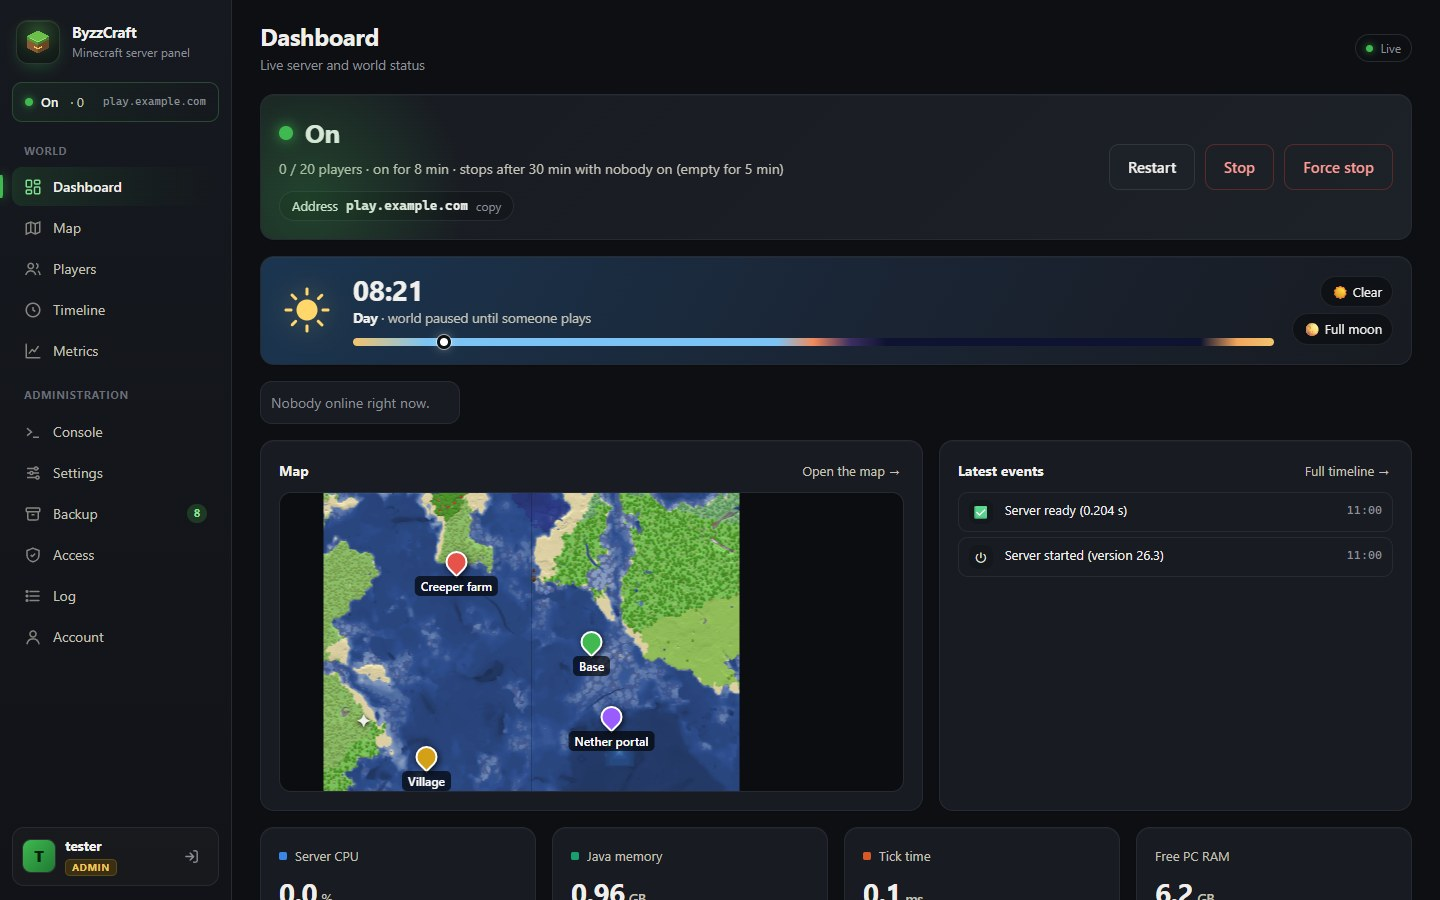
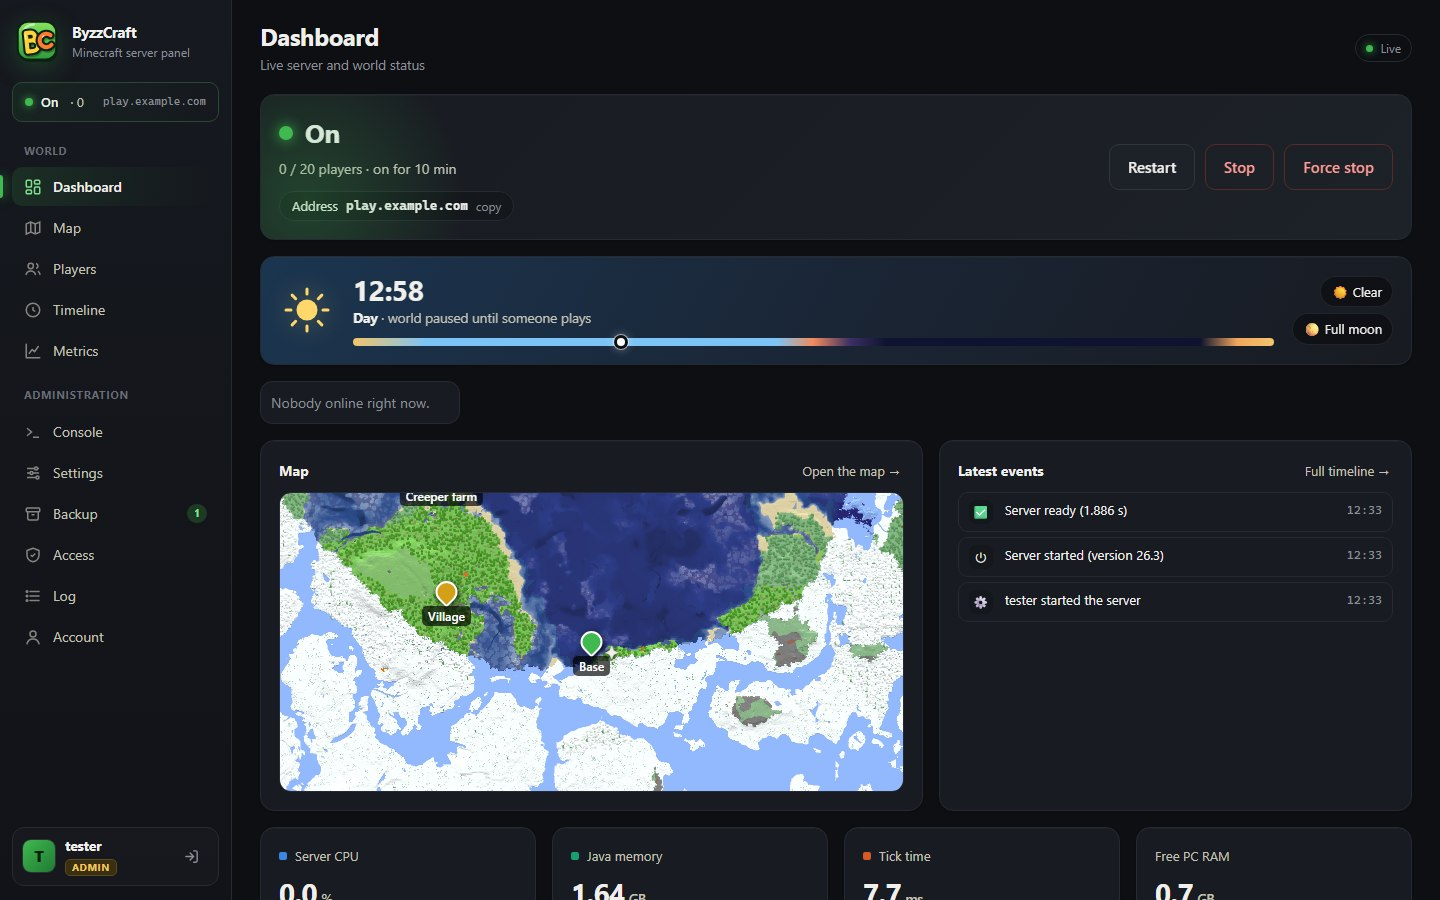
Language in Settings > Panel, new screenshots
- Settings > Panel: language select (English plus one entry per
  i18n/<code>.json); saving a new language restarts the panel, the page
  reloads when it is back. Refused while the server starts or stops or a
  backup runs. Setup page and `setup --lang` use the same list.
- Dashboard "Latest events": events are filtered before the cut, on the
  server and in the page, so console commands no longer push the server
  starts out of the feed.
- Map: tiles overlap by 1 px, no seams when zoomed out.
- Language and Java flags share one row in Settings > Panel.
- docs/screenshots: retaken from a demo server (fresh world, new logo).
- Test: language list, unknown language refused, language saved.

diff --git a/app.html b/app.html
@@ -244,7 +244,7 @@ details.ender summary{cursor:pointer;color:var(--text2);font-size:14px;margin-bo
 .wm{position:relative;overflow:hidden;background:#0b0d10;border-radius:12px;border:1px solid var(--line);touch-action:none;cursor:grab;user-select:none}
 .wm:active{cursor:grabbing}
 .wm-world{position:absolute;left:0;top:0;transform-origin:0 0}/* no will-change: the browser would paint at one scale only (missing tiles, blurry text when zoomed) */
-.wm-world img{position:absolute;width:512px;height:512px;image-rendering:auto}
+.wm-world img{position:absolute;width:513px;height:513px;image-rendering:auto}   /* 1 px overlap: no seams between tiles when zoomed out */
 .wm.px .wm-world img{image-rendering:pixelated}
 .wm-mk{position:absolute;transform-origin:0 0;transform:scale(var(--inv,1)) translate(-50%,-50%);pointer-events:auto}
 .wm-pl{transition:left 3s linear,top 3s linear;z-index:5}
@@ -363,8 +363,8 @@ details.ender summary{cursor:pointer;color:var(--text2);font-size:14px;margin-bo
 .acr .acts{display:flex;gap:6px;flex-wrap:wrap;justify-content:flex-end}
 .acc{display:grid;gap:16px;grid-template-columns:repeat(2,minmax(0,1fr));align-items:start}.acc-wide{grid-column:1/-1}
 @media (max-width:900px){.acc{grid-template-columns:minmax(0,1fr)}}
-.ps{display:grid;gap:0 16px;grid-template-columns:repeat(3,minmax(0,1fr))}.ps-wide{grid-column:1/-1}.ps-info{font-size:12.5px;color:var(--mute);margin:0}
-@media (max-width:900px){.ps{grid-template-columns:minmax(0,1fr)}}.acc h3{font-size:15px;margin:0 0 6px}
+.ps{display:grid;gap:0 16px;grid-template-columns:repeat(3,minmax(0,1fr))}.ps-wide{grid-column:span 2}.ps-info{font-size:12.5px;color:var(--mute);margin:0}
+@media (max-width:900px){.ps{grid-template-columns:minmax(0,1fr)}.ps-wide{grid-column:auto}}.acc h3{font-size:15px;margin:0 0 6px}
 .acc label.f{display:block;font-size:12.5px;color:var(--text2);margin:12px 0 6px}.acc .search{width:100%;min-width:0}
 .acc .row{display:flex;gap:10px;align-items:center;flex-wrap:wrap;margin-top:14px}.acc .ac-list{margin-top:8px}
 .sb{background:var(--card2);border:1px solid var(--line2);color:var(--text2);border-radius:8px;padding:5px 10px;font-size:12.5px;cursor:pointer;white-space:nowrap;transition:all .15s}
@@ -525,6 +525,7 @@ details.ender summary{cursor:pointer;color:var(--text2);font-size:14px;margin-bo
           <div><label class="f" for="ps-ram">{{Server RAM}}</label><input class="search" id="ps-ram" maxlength="7" spellcheck="false" autocomplete="off"></div>
           <div><label class="f" for="ps-stop">{{Stop when empty for (minutes, 0 = never)}}</label><input class="search" type="number" min="0" max="1440" id="ps-stop"></div>
           <div><label class="f" for="ps-addr">{{Server address for players (optional)}}</label><input class="search" id="ps-addr" maxlength="100" spellcheck="false" autocomplete="off" placeholder="{{e.g. play.example.com}}"></div>
+          <div><label class="f" for="ps-lang">{{Language}}</label><select class="search" id="ps-lang"></select></div>
           <div class="ps-wide"><label class="f" for="ps-args">{{Extra Java flags (optional)}}</label><input class="search" id="ps-args" maxlength="500" spellcheck="false" autocomplete="off"></div>
         </div>
         <div class="row"><label class="toggle"><input type="checkbox" id="ps-bk"> {{Back up the world before every start}}</label></div>
@@ -819,12 +820,14 @@ async function saveProps(restart){const j=await api("/api/properties",{changes:S
 const PS={async load(){if(!BOOT.admin)return;const r=await fetch("/api/panel-settings");if(r.ok)this.render(await r.json())},
   render(j){$("#ps-ram").value=j.ram;$("#ps-ram").placeholder=_t("automatic: %s",j.ram_auto);$("#ps-stop").value=j.auto_stop_minutes;
     $("#ps-addr").value=j.mc_address;$("#ps-args").value=j.java_args;$("#ps-bk").checked=j.backup_on_start;$("#ps-ar").checked=j.auto_restart;
+    $("#ps-lang").innerHTML=j.langs.map(([c,n])=>"<option value='"+esc(c)+"'>"+esc(n)+"</option>").join("");$("#ps-lang").value=j.lang;
     ["#ps-ram","#ps-args","#ps-bk"].forEach(s=>$(s).disabled=!!j.start_script);
     $("#ps-info").textContent=j.start_script?_t("Started by your script %s: RAM, Java flags and the backup before the start are set there.",j.start_script)
       :_t("Server %s · %s · this machine has %s GB of RAM",j.jar||_t("not found"),
         !j.java?_t("Java not found"):"Java "+(j.java_need||"")+" ("+(j.java_bundled?_t("downloaded by the panel"):_t("installed on the system"))+")",nf(j.ram_total/1024,1))},
   async save(){const j=await api("/api/panel-settings",{ram:$("#ps-ram").value,java_args:$("#ps-args").value,backup_on_start:$("#ps-bk").checked,auto_restart:$("#ps-ar").checked,
-    auto_stop_minutes:+$("#ps-stop").value||0,mc_address:$("#ps-addr").value});toast(j.message,j.ok?"good":"bad");
+    auto_stop_minutes:+$("#ps-stop").value||0,mc_address:$("#ps-addr").value,lang:$("#ps-lang").value});toast(j.message,j.ok?"good":"bad");
+    if(j.restart){const again=()=>fetch("/manifest.webmanifest").then(r=>r.ok?location.reload():setTimeout(again,1000)).catch(()=>setTimeout(again,1000));setTimeout(again,2500);return}   /* the panel restarts in the new language */
     if(j.ok){this.render(j.settings);BOOT.address=j.settings.mc_address;renderStatus()}}};
 $("#ps-save").onclick=()=>PS.save();
 $("#p-save").onclick=()=>saveProps(false);$("#p-save-r").onclick=()=>{if(S.status.state!="on"||confirm(_t("Save and restart the server now?")))saveProps(S.status.state=="on")};
@@ -932,7 +935,8 @@ function evHTML(e,compact){const u=e.player&&uuidOf(e.player);const face=u&&["jo
   const ic=face?"<span class=fc style='"+faceStyle(u,compact?24:30)+"'></span>":"<span class=ic>"+(EVI[e.type]||"•")+"</span>";
   const sub=e.type=="death"&&e.detail&&e.detail.killer?"":e.type=="chat"&&e.player?"":"";
   return "<div class='ev "+e.type+"'>"+ic+"<div class=tx>"+esc(e.text)+sub+"</div><time>"+(compact?hhmm(e.t):hhmmss(e.t))+"</time></div>"}
-function renderDashFeed(){const box=$("#dash-feed");const evs=(S.timeline||[]).filter(e=>e.type!="chat"&&(e.type!="panel"||(e.detail||{}).cat=="server")).slice(0,8);
+const feedEv=e=>e.type!="chat"&&(e.type!="panel"||(e.detail||{}).cat=="server");   /* events the dashboard feed shows */
+function renderDashFeed(){const box=$("#dash-feed");const evs=(S.timeline||[]).filter(feedEv).slice(0,8);
   box.innerHTML=evs.length?evs.map(e=>evHTML(e,true)).join(""):"<div style='color:var(--mute);font-size:14px'>"+_t("No events yet.")+"</div>"}
 function heartsMini(h){let s="";for(let i=0;i<10;i++){const v=h-i*2;s+="<img src='/hud/"+(v>=2?"heart_full":v>=1?"heart_half":"heart_container")+".png'>"}return s}
 function renderOnline(){renderMe();setSub();if(CUR=="audit"&&RGV.loaded)RGV.render();const box=$("#online-strip");const on=(P.roster||[]).filter(p=>p.online);
@@ -941,7 +945,7 @@ function renderOnline(){renderMe();setSub();if(CUR=="audit"&&RGV.loaded)RGV.rend
   box.innerHTML=on.map(p=>{const q=pos[p.uuid]||{};const h=q.health!=null?q.health:p.health;const where=q.pos?(DIM[q.dim]||q.dim)+" · "+q.pos[0].toFixed(0)+" "+q.pos[2].toFixed(0):"online";
     return "<div class=op data-u='"+p.uuid+"'><span class=fc style='"+faceStyle(p.uuid,34)+"'></span><div><b>"+esc(p.name)+"</b><small>"+esc(where)+"</small><div class=hearts>"+heartsMini(h||0)+"</div></div></div>"}).join("");
   box.querySelectorAll(".op[data-u]").forEach(o=>o.onclick=()=>{go("players");selectPlayer(o.dataset.u)})}
-function onTimeline(e){S.timeline=S.timeline||[];S.timeline.unshift(e);S.timeline.length=Math.min(S.timeline.length,40);renderDashFeed();TLV.live(e);
+function onTimeline(e){S.timeline=S.timeline||[];if(feedEv(e)){S.timeline.unshift(e);S.timeline.length=Math.min(S.timeline.length,40);renderDashFeed()}TLV.live(e);
   const T={death:"bad",join:"good",leave:"",server_ready:"good",server_stop:""};if(e.type in T)toast((EVI[e.type]||"")+" "+e.text,T[e.type])}
 async function loadRoster(){try{const r=await fetch("/api/players");if(!r.ok)return;const j=await r.json();P.roster=j.players;P.hardcore=j.hardcore;renderOnline();renderRoster();TLV.fillPlayers();MAPF.drawMarkers();MAPM.drawMarkers();renderDashFeed();
   if(TLV.opened){TLV.renderSessions();TLV.render()}}catch(e){}}

diff --git a/panel.py b/panel.py
@@ -1364,7 +1364,7 @@ def setup_page(error="", form=None, token="", remote=False):
     e = html.escape
     err = '<p class="err">%s</p>' % e(error) if error else ""
     lang = f.get("lang", i18n.LANG)
-    opts = "".join("<option value=%s%s>%s</option>" % (k, " selected" if k == lang else "", v) for k, v in (("en", "English"), ("it", "Italiano")))
+    opts = "".join("<option value=%s%s>%s</option>" % (k, " selected" if k == lang else "", LANG_NAMES.get(k, k)) for k in languages())
     sd = f.get("server_dir", guess_server_dir() or os.environ.get("BYZZ_SERVER_DIR") or os.path.join(os.path.expanduser("~"), "minecraft"))
     network = f.get("network", "1" if remote else "") == "1"
     has_jar = bool(sd) and bool(AS.find_jar(sd))
@@ -1423,10 +1423,16 @@ def panel_settings():
     java = RT.java_for(need)[0]
     return {**{k: CFG.get(k, DEFAULTS.get(k)) for k in PANEL_KEYS}, "ram_auto": auto_ram(), "ram_total": round(system_memory()[1]),
             "jar": server_jar(), "java": java, "java_need": need, "start_script": CFG.get("start_script") or "",
-            "java_bundled": bool(java and java.startswith(RT.RUNTIME))}
+            "java_bundled": bool(java and java.startswith(RT.RUNTIME)), "langs": [[c, LANG_NAMES.get(c, c)] for c in languages()]}
 
 
-PANEL_KEYS = ("ram", "java_args", "backup_on_start", "auto_stop_minutes", "mc_address", "auto_restart")
+PANEL_KEYS = ("ram", "java_args", "backup_on_start", "auto_stop_minutes", "mc_address", "auto_restart", "lang")
+LANG_NAMES = {"en": "English", "it": "Italiano"}
+
+
+def languages():
+    """English plus one language per i18n/<code>.json."""
+    return ["en"] + sorted(f[:-5] for f in os.listdir(os.path.join(HERE, "i18n")) if f.endswith(".json"))
 
 
 def save_panel_settings(data, who):
@@ -1452,8 +1458,13 @@ def save_panel_settings(data, who):
     addr = str(data.get("mc_address", "")).strip()
     if len(addr) > 100 or re.search(r"[\s<>\"']", addr):
         raise ValueError(t("Invalid server address."))
+    lang = str(data.get("lang") or CFG["lang"])
+    if lang not in languages():
+        raise ValueError(t("Invalid request."))
+    if lang != CFG["lang"] and (SRV.state in ("starting", "stopping") or backup_busy() or OP_PENDING.is_set()):
+        raise ValueError(t("Change the language when the server is not starting or stopping and no backup is running."))
     new = {"ram": ram, "java_args": args, "backup_on_start": bool(data.get("backup_on_start")), "auto_stop_minutes": mins, "mc_address": addr,
-           "auto_restart": bool(data.get("auto_restart"))}
+           "auto_restart": bool(data.get("auto_restart")), "lang": lang}
     changed = [k for k in PANEL_KEYS if CFG.get(k, DEFAULTS.get(k)) != new[k]]
     if changed:
         save_config(new)
@@ -1479,7 +1490,7 @@ def do_setup(f):
         except Exception as e:  # noqa: BLE001
             L.exception("server download failed")
             return t("Could not download the Minecraft server: %s") % e
-    cfg = save_config({"server_dir": sd, "port": CFG["port"], "lang": f.get("lang") if f.get("lang") in ("en", "it") else "en",
+    cfg = save_config({"server_dir": sd, "port": CFG["port"], "lang": f.get("lang") if f.get("lang") in languages() else "en",
                        "listen": "0.0.0.0" if f.get("network") == "1" else "127.0.0.1", "java_auto": f.get("java") == "1"})
     i18n.load(cfg["lang"])   # this process still serves the first page, before the restart
     prepare_server(sd, f.get("eula") == "1")
@@ -1976,7 +1987,8 @@ class Handler(BaseHTTPRequestHandler):
         self.end_headers()
         q = HUB.subscribe(s["admin"])
         try:
-            recent = [e for e in TLINE.events(limit=40) if s["admin"] or e.get("type") != "panel"][:25]
+            # what the dashboard feed shows, filtered before the cut: 25 console commands must not hide the server starts
+            recent = [e for e in TLINE.events(limit=0) if e["type"] != "chat" and (e["type"] != "panel" or s["admin"] and e["detail"].get("cat") == "server")][:25]
             admin0 = s["admin"]
             init = {"status": SRV.snapshot(), "metrics": list(METRICS), "heap": list(HEAP), "audit": list(AUDIT) if admin0 else [],
                     "console": list(CONSOLE) if admin0 else [], "timeline": recent,
@@ -2104,6 +2116,9 @@ class Handler(BaseHTTPRequestHandler):
             except ValueError as e:
                 return self.json(200, {"ok": False, "message": str(e)})
             HUB.publish("status", SRV.snapshot())
+            if "lang" in changed:   # every text, the timeline cache included, is translated once per process
+                threading.Thread(target=restart_soon, daemon=True).start()
+                return self.json(200, {"ok": True, "message": t("Saved: the panel restarts in the new language."), "restart": True})
             msg = t("Saved: the new RAM and Java flags apply at the next start.") if {"ram", "java_args"} & set(changed) else t("Saved.") if changed else t("No changes")
             return self.json(200, {"ok": True, "message": msg, "settings": panel_settings()})
         if self.path == "/api/users/save":
@@ -2290,7 +2305,7 @@ def cli(args):
         ap = argparse.ArgumentParser(prog="panel.py setup", description="First setup without a browser.")
         ap.add_argument("server_dir", help="Minecraft server folder (created with --new-server)")
         ap.add_argument("--admin", required=True, help="name of the first admin user")
-        ap.add_argument("--lang", default="en", choices=("en", "it"))
+        ap.add_argument("--lang", default="en", choices=languages())
         ap.add_argument("--network", action="store_true", help="open the panel to the home network (http://IP:%d)" % CFG["port"])
         ap.add_argument("--accept-eula", action="store_true", help="accept the Minecraft EULA (https://aka.ms/MinecraftEULA)")
         ap.add_argument("--new-server", action="store_true", help="download the latest Minecraft server if the folder has none")

diff --git a/tests/test_panel.py b/tests/test_panel.py
@@ -48,6 +48,18 @@ try:
     c.proc.wait(timeout=20)
     check("force stop while loading: off, no start error", ok and c.state == "off" and c.start_error is None, (ok, c.state))
 
+    # language from Settings > Panel: only the ones with a translation file
+    check("languages", panel.languages()[:1] == ["en"] and "it" in panel.languages(), panel.languages())
+    form = {"auto_stop_minutes": 30, "backup_on_start": True, "auto_restart": True}
+    try:
+        panel.save_panel_settings(dict(form, lang="xx"), "test")
+        check("unknown language refused", False)
+    except ValueError:
+        check("unknown language refused", True)
+    changed = panel.save_panel_settings(dict(form, lang="it"), "test")
+    saved = json.load(open(j(root, "data", "panel-config.json"), encoding="utf-8"))
+    check("language saved", "lang" in changed and saved.get("lang") == "it" and panel.CFG["lang"] == "it", (changed, saved.get("lang")))
+
     # BungeeCord/Velocity forward the real UUIDs: no offline UUIDs then
     check("no proxy config: not forwarded", not panel.uuid_forwarded())
     with open(j(srv_dir, "spigot.yml"), "w") as f:

diff --git a/CHANGELOG.md b/CHANGELOG.md
@@ -15,7 +15,9 @@
 - Windows: hints for PowerShell; automatic backups too big for the Recycle Bin are deleted.
 - Root warning on the Dashboard.
 - Login lock per address only.
-- New cartoon "BC" logo and icons; README with logo, badges and a screenshot gallery.
+- New cartoon "BC" logo and icons; README with logo, badges and a screenshot gallery; new screenshots.
+- Language can be changed from **Settings → Panel** (the panel restarts in the new language).
+- Dashboard "Latest events" no longer goes empty after many console commands; no seams between map tiles.
 - Skins: offline-mode players and a Mojang outage no longer slow the pages (default skin cached for 6 hours).
 - Timeline reads only the new lines of panel.log.
 - Windows: no cmd windows flashing; the Dashboard asks for its checks once per page load.

diff --git a/README.md b/README.md
@@ -246,7 +246,7 @@ Dashboard warns when less than three backups would fit.
 | `java_args` | empty | extra Java flags (also in **Settings → Panel**) |
 | `backup_on_start` | `true` | back up the world before each start (without `start_script`) |
 | `listen`, `port` | `127.0.0.1`, `8765` | where the panel listens (`0.0.0.0` = home network) |
-| `lang` | chosen at setup | interface language: `en`, `it` |
+| `lang` | chosen at setup | interface language: `en`, `it` (also in **Settings → Panel**) |
 | `title` | `ByzzCraft` | name shown in the page |
 | `auto_stop_minutes` | `30` | stop the server after N minutes empty (0 = never) |
 | `mc_address` | | server address shown to players, with a copy button |
